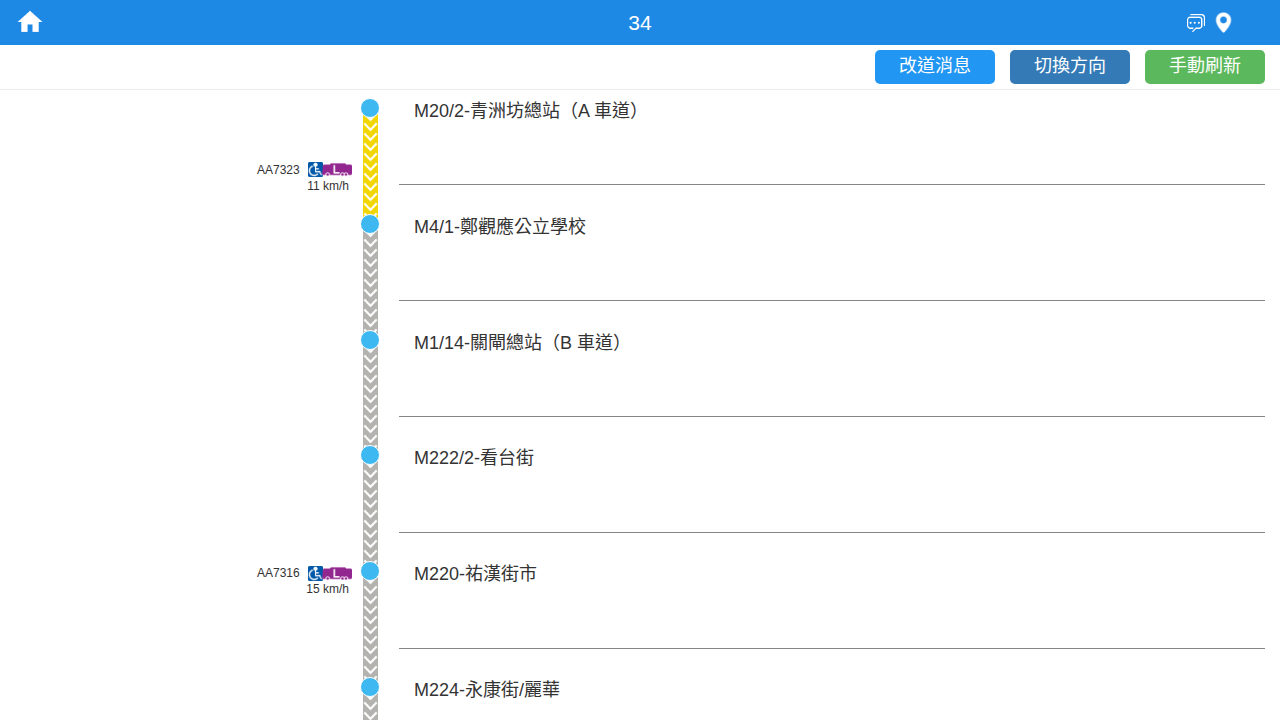
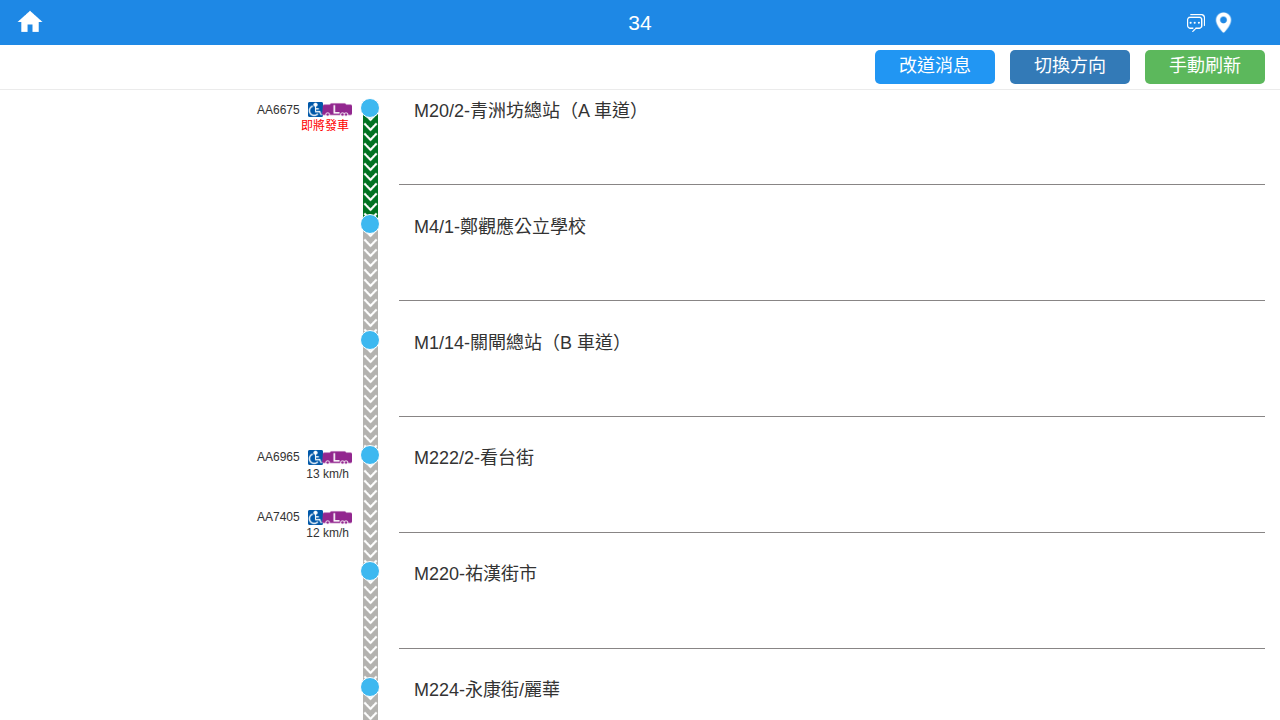
chore: refresh bus route snapshots (MT3, 30, 34)
Added MT3 to the scope and re-captured all three live routes from DSAT
巴士報站 on 2026-06-15 18:56. Detour (改道消息) still active on routes
30 and 34. MT3 also showing a detour notice.

🤖 Model: minimax/MiniMax-M2.7-highspeed

Changed region(s): [[0.1875, 0.1222, 0.3125, 0.3056], [0.1875, 0.7028, 0.2812, 0.825], [0.1875, 0.6111, 0.2812, 0.6722]]

diff --git a/repo-issue.md b/repo-issue.md
@@ -1,7 +1,8 @@
-# Task: Capture fresh snapshots for routes 30, 34
+# Task: Capture fresh snapshots for routes MT3, 30, 34
 
 **Created:** 2026-06-11 18:43 (updated 2026-06-12 08:04 — added 34;
-updated 2026-06-12 19:08 — scope now 30, 34; re-requested 2026-06-15 17:38)
+updated 2026-06-12 19:08 — scope now 30, 34; re-requested 2026-06-15 17:38;
+added MT3 on 2026-06-15 18:56)
 **Status:** In Progress
 **Model:** minimax/MiniMax-M2.7-highspeed
 **Related Issue:** —
@@ -10,18 +11,18 @@ updated 2026-06-12 19:08 — scope now 30, 34; re-requested 2026-06-15 17:38)
 
 ## 1. Work Brief
 
-John re-asked on 2026-06-15 17:38: "Load github repo dev skill, goto bus
-route repo, get bus route 30 34 snapshot." Previous capture for 30/34
-was 3 days old (commit 5b6295d, 2026-06-12 19:10). Capturing a fresh
-snapshot now.
+John asked on 2026-06-15 18:56: "Get route MT3 30 34." Extending the
+prior 30/34 capture with MT3. All three screenshots will be refreshed
+in a single `snapshot.js` run.
 
 Use the existing `snapshot.js` script (Playwright + headless Chrome) to
-capture fresh live snapshots of Macau bus routes **30** and **34** from
-the DSAT 巴士報站 system. Save fresh screenshots to `route-30.png` and
-`route-34.png` and deliver the human-readable summary back to John.
+capture fresh live snapshots of Macau bus routes **MT3, 30, 34** from
+the DSAT 巴士報站 system. Save fresh screenshots to `route-MT3.png`,
+`route-30.png`, `route-34.png` and deliver the human-readable summary
+back to John.
 
 Prior captures in this thread: 52, MT2, 34 (commit 465d38f, 2026-06-12 08:04);
-30, 34 (commit 5b6295d, 2026-06-12 19:10).
+30, 34 (commit 5b6295d, 2026-06-12 19:10); 30, 34 (commit 66cf6eb, 2026-06-15 17:38).
 
 ---
 
@@ -29,7 +30,8 @@ Prior captures in this thread: 52, MT2, 34 (commit 465d38f, 2026-06-12 08:04);
 
 - [x] Run `snapshot.js 52 MT2 34` (done 2026-06-12 08:04, commit 465d38f)
 - [x] Run `snapshot.js 30 34` (done 2026-06-12 19:10, commit 5b6295d)
-- [x] Run `snapshot.js 30 34` (refresh — 2026-06-15 17:38, screenshots updated)
+- [x] Run `snapshot.js 30 34` (refresh — 2026-06-15 17:38, commit 66cf6eb)
+- [x] Run `snapshot.js MT3 30 34` (refresh — 2026-06-15 18:56, all 3 screenshots updated)
 - [x] Review captured output (bus positions for each route)
 - [ ] Commit the refreshed screenshots
 - [ ] ⚠ Ask user to confirm completion before deleting this file
@@ -40,10 +42,9 @@ Prior captures in this thread: 52, MT2, 34 (commit 465d38f, 2026-06-12 08:04);
 
 **Repo:** `john-fb-agent/macau-bus-snapshot`
 **Branch:** `main`
-**Routes requested:** 52, MT2, 34 (3 routes; previous run was MT2 only)
-**Existing `route-52.png`:** from 2026-06-11 18:45 (very recent)
-**Existing `route-MT2.png`:** from 2026-06-11 19:11 (very recent)
-**New file `route-34.png`:** will be created on this run
+**Routes requested:** MT3, 30, 34 (this run)
+**Detour status observed 2026-06-15 17:38:** Both routes 30 and 34
+showed 改道消息 (detour in effect). Worth re-checking after this run.
 **Note on prior repo-issue.md (2026-06-08):** The older doc-creation
 task is "In Progress" with all doc work done but never formally closed
 by John. Leaving it untouched for now — will ask John about it at
